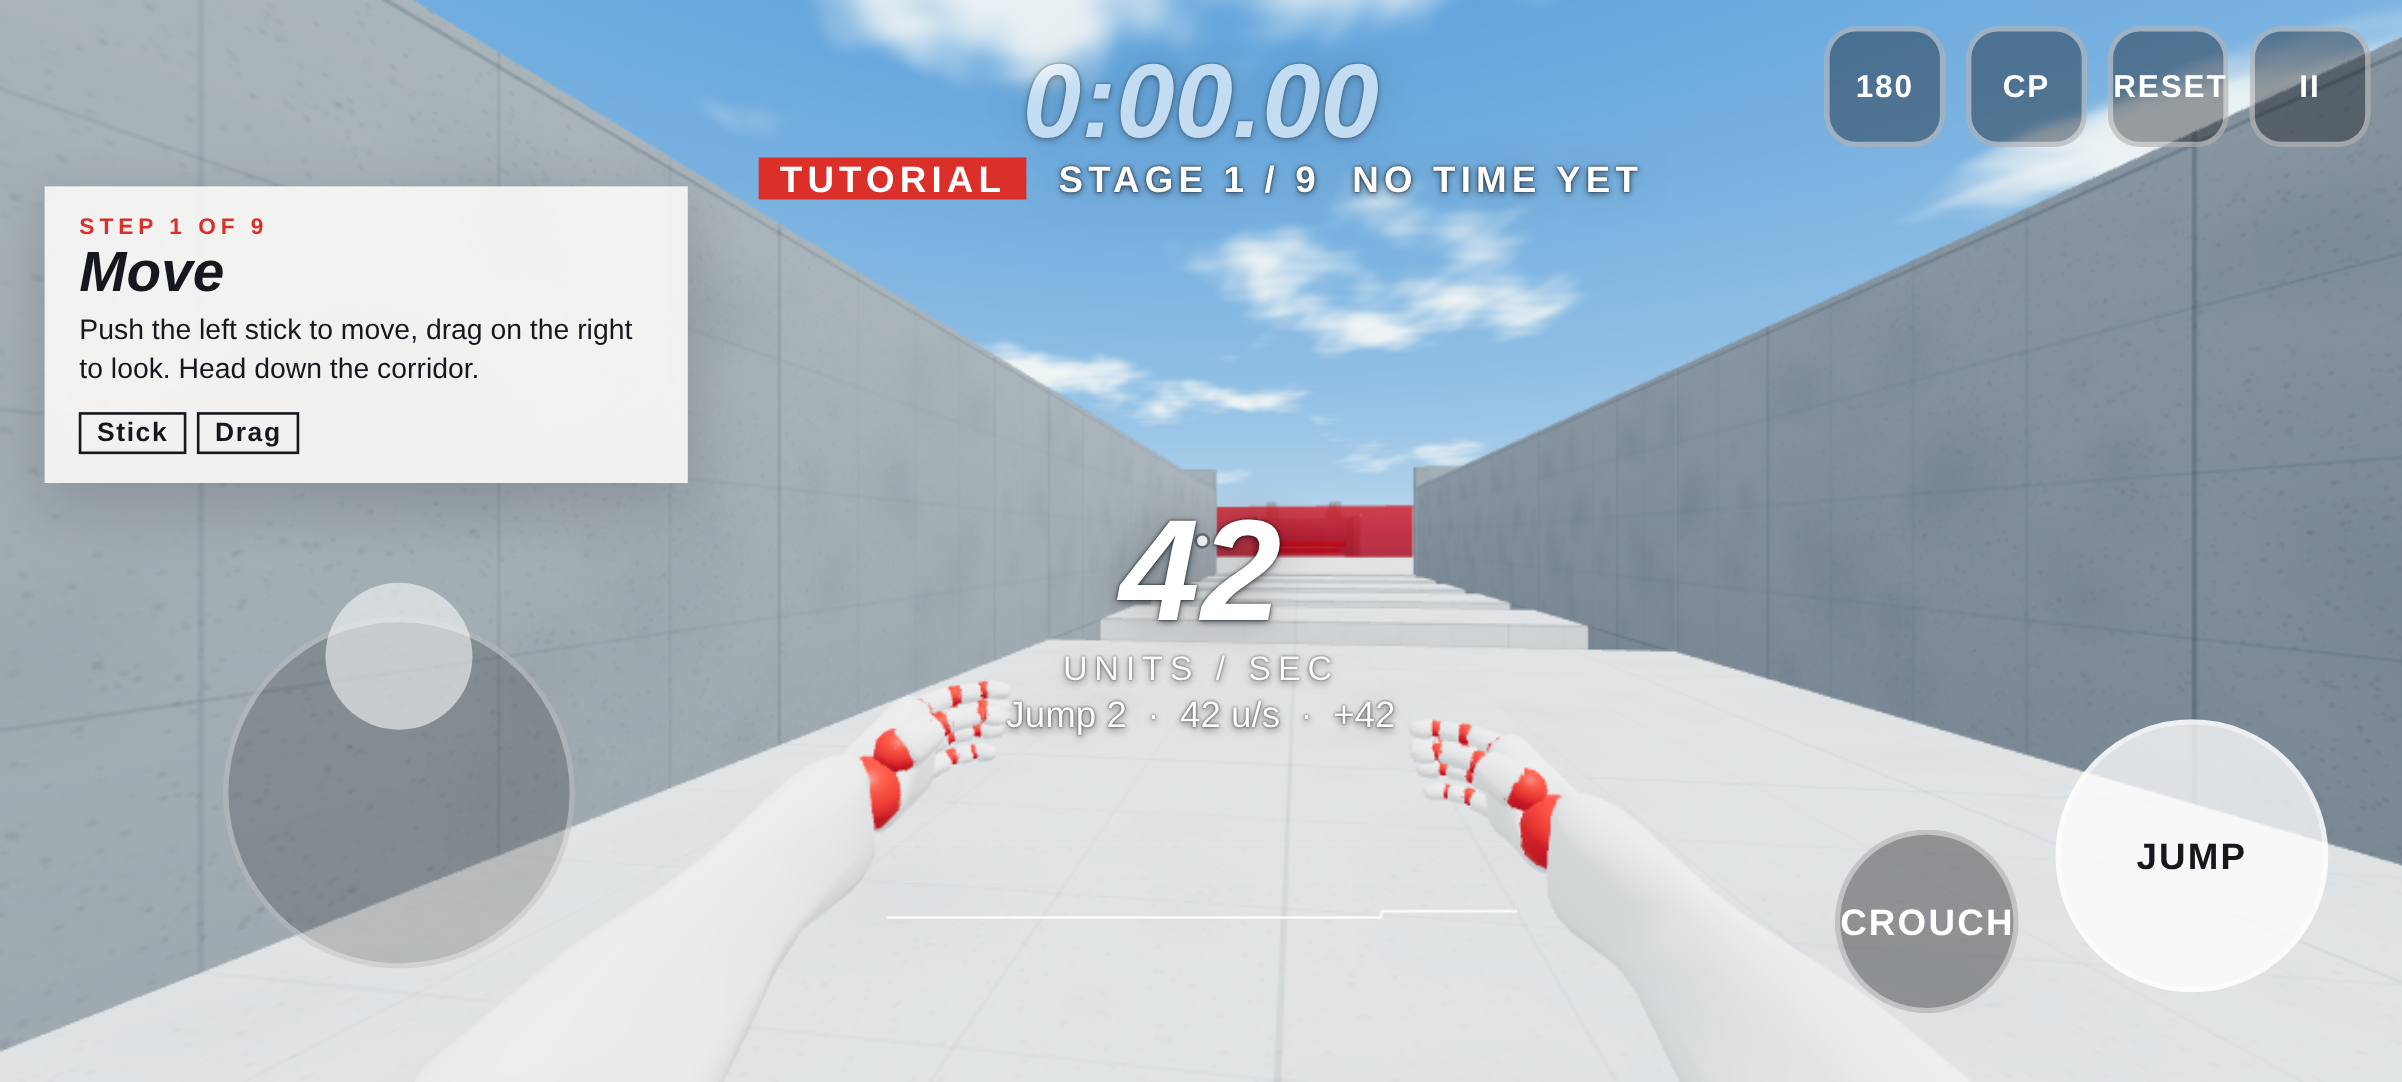
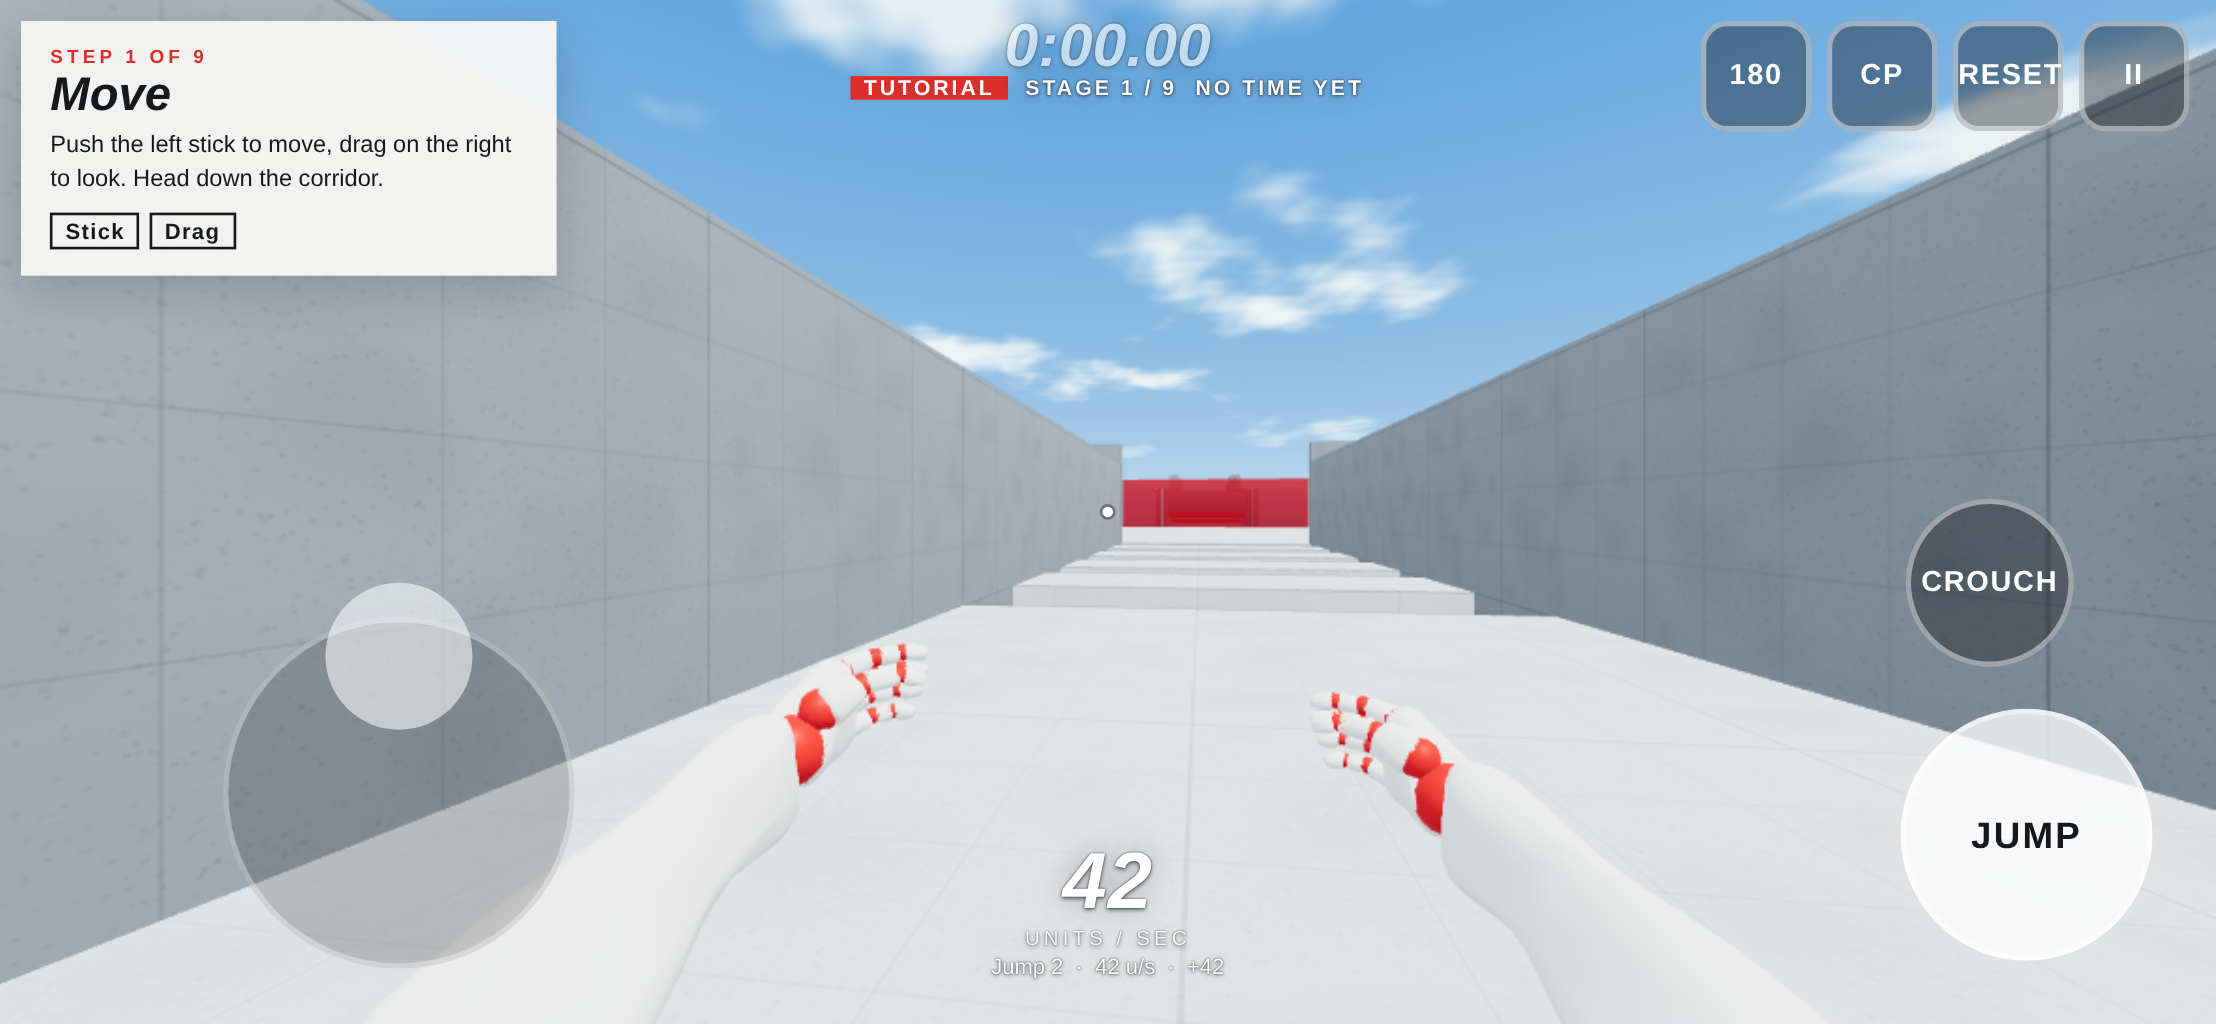
Touch: pause on a quick tap, phone-sized HUD
The tap on the pause button fell through as a click onto the menu or
the view, which resumed the game, so pause only stuck on a long press.
Clicks are now dropped for a moment after pausing. The touch HUD is
smaller: timer top-centre, speed low between the thumbs, tutorial card
top-left, Crouch stacked above Jump. Mouse play is unchanged.

Claude-Session: https://claude.ai/code/session_01SMFRvYaVk4Ny59nhfiSM2p

diff --git a/dist/index.html b/dist/index.html
@@ -8088,14 +8088,20 @@ body.touch.playing:not(.complete) #touch { display: block; }
 .t-btn { position: absolute; border-radius: 50%; border: 2px solid rgba(255,255,255,.45); background: rgba(10,14,18,.38); color: #fff;
   font: 700 14px/1 'Barlow Condensed', sans-serif; letter-spacing: .06em; text-transform: uppercase; touch-action: none; display: grid; place-items: center; padding: 0; }
 .t-btn.on { background: rgba(255,255,255,.75); color: #15191d; }
-#t-jump { width: 104px; height: 104px; right: max(28px, env(safe-area-inset-right)); bottom: 34px; }
-#t-duck { width: 70px; height: 70px; font-size: 12px; right: calc(max(28px, env(safe-area-inset-right)) + 118px); bottom: 26px; }
-#t-bar { position: absolute; top: max(10px, env(safe-area-inset-top)); right: max(12px, env(safe-area-inset-right)); display: flex; gap: 8px; }
-#t-bar .t-btn { position: static; width: 46px; height: 46px; border-radius: 12px; font-size: 12px; }
+#t-jump { width: 96px; height: 96px; right: max(24px, env(safe-area-inset-right)); bottom: max(24px, env(safe-area-inset-bottom)); }
+#t-duck { width: 64px; height: 64px; font-size: 11px; right: calc(max(24px, env(safe-area-inset-right)) + 30px); bottom: calc(max(24px, env(safe-area-inset-bottom)) + 112px); }
+#t-bar { position: absolute; top: max(8px, env(safe-area-inset-top)); right: max(10px, env(safe-area-inset-right)); display: flex; gap: 6px; }
+#t-bar .t-btn { position: static; width: 42px; height: 42px; border-radius: 10px; font-size: 11px; }
 #t-rotate { position: fixed; inset: 0; z-index: 60; display: none; place-items: center; background: #0d1114; color: #f6f6f3; font: 700 22px/1.3 'Barlow Condensed', sans-serif; text-align: center; padding: 24px; }
 @media (orientation: portrait) { body.touch.playing #t-rotate { display: grid; } }
 body.touch #help, body.touch #keys, #t-hint { display: none; }
-body.touch #tut { zoom: .72; }
+body.touch #tut { zoom: .6; top: calc(14px + env(safe-area-inset-top, 0px)); left: calc(14px + env(safe-area-inset-left, 0px)); }
+/* phone HUD: small timer up top, speed low and centred between the thumbs */
+body.touch #top { zoom: .58; top: calc(8px + env(safe-area-inset-top, 0px)); }
+body.touch #speedwrap { zoom: .6; bottom: calc(10px + env(safe-area-inset-bottom, 0px)); }
+body.touch #graph { display: none; }
+body.touch #toast { zoom: .7; top: 22vh; }
+body.touch #fps { top: calc(8px + env(safe-area-inset-top, 0px)); left: calc(12px + env(safe-area-inset-left, 0px)); }
 @media (max-height: 560px) { body.touch #menu, body.touch #drawer, body.touch #complete { zoom: .62; } }
 body.touch #menu button, body.touch #drawer button { min-height: 40px; }
 `;
@@ -8167,11 +8173,16 @@ body.touch #menu button, body.touch #drawer button { min-height: 40px; }
     for (const b of root.querySelectorAll('#t-bar [data-k]')) b.addEventListener('pointerdown', (e) => {
       e.preventDefault();
       const k = b.dataset.k;
-      if (k === 'pause') touchLock(false);
+      if (k === 'pause') { swallowUntil = performance.now() + 600; touchLock(false); }
       else if (k === 'restart') restartCourse();
       else if (k === 'cp') respawn();
       else if (k === 'turn') { if (turnLeft <= 0) turnLeft = Math.PI; }
     });
+    // the tap that pauses would land as a click on whatever the menu puts
+    // under the thumb (or the view, which resumes), so drop it
+    let swallowUntil = 0;
+    const swallow = (e) => { if (performance.now() < swallowUntil) { e.stopPropagation(); e.preventDefault(); } };
+    for (const t of ['click', 'pointerup', 'mouseup', 'touchend']) document.addEventListener(t, swallow, true);
     // the page never scrolls or zooms under the thumbs
     document.addEventListener('touchmove', (e) => { if (locked) e.preventDefault(); }, { passive: false });
     document.addEventListener('gesturestart', (e) => e.preventDefault());

diff --git a/src/game.js b/src/game.js
@@ -1078,14 +1078,20 @@ body.touch.playing:not(.complete) #touch { display: block; }
 .t-btn { position: absolute; border-radius: 50%; border: 2px solid rgba(255,255,255,.45); background: rgba(10,14,18,.38); color: #fff;
   font: 700 14px/1 'Barlow Condensed', sans-serif; letter-spacing: .06em; text-transform: uppercase; touch-action: none; display: grid; place-items: center; padding: 0; }
 .t-btn.on { background: rgba(255,255,255,.75); color: #15191d; }
-#t-jump { width: 104px; height: 104px; right: max(28px, env(safe-area-inset-right)); bottom: 34px; }
-#t-duck { width: 70px; height: 70px; font-size: 12px; right: calc(max(28px, env(safe-area-inset-right)) + 118px); bottom: 26px; }
-#t-bar { position: absolute; top: max(10px, env(safe-area-inset-top)); right: max(12px, env(safe-area-inset-right)); display: flex; gap: 8px; }
-#t-bar .t-btn { position: static; width: 46px; height: 46px; border-radius: 12px; font-size: 12px; }
+#t-jump { width: 96px; height: 96px; right: max(24px, env(safe-area-inset-right)); bottom: max(24px, env(safe-area-inset-bottom)); }
+#t-duck { width: 64px; height: 64px; font-size: 11px; right: calc(max(24px, env(safe-area-inset-right)) + 30px); bottom: calc(max(24px, env(safe-area-inset-bottom)) + 112px); }
+#t-bar { position: absolute; top: max(8px, env(safe-area-inset-top)); right: max(10px, env(safe-area-inset-right)); display: flex; gap: 6px; }
+#t-bar .t-btn { position: static; width: 42px; height: 42px; border-radius: 10px; font-size: 11px; }
 #t-rotate { position: fixed; inset: 0; z-index: 60; display: none; place-items: center; background: #0d1114; color: #f6f6f3; font: 700 22px/1.3 'Barlow Condensed', sans-serif; text-align: center; padding: 24px; }
 @media (orientation: portrait) { body.touch.playing #t-rotate { display: grid; } }
 body.touch #help, body.touch #keys, #t-hint { display: none; }
-body.touch #tut { zoom: .72; }
+body.touch #tut { zoom: .6; top: calc(14px + env(safe-area-inset-top, 0px)); left: calc(14px + env(safe-area-inset-left, 0px)); }
+/* phone HUD: small timer up top, speed low and centred between the thumbs */
+body.touch #top { zoom: .58; top: calc(8px + env(safe-area-inset-top, 0px)); }
+body.touch #speedwrap { zoom: .6; bottom: calc(10px + env(safe-area-inset-bottom, 0px)); }
+body.touch #graph { display: none; }
+body.touch #toast { zoom: .7; top: 22vh; }
+body.touch #fps { top: calc(8px + env(safe-area-inset-top, 0px)); left: calc(12px + env(safe-area-inset-left, 0px)); }
 @media (max-height: 560px) { body.touch #menu, body.touch #drawer, body.touch #complete { zoom: .62; } }
 body.touch #menu button, body.touch #drawer button { min-height: 40px; }
 `;
@@ -1157,11 +1163,16 @@ body.touch #menu button, body.touch #drawer button { min-height: 40px; }
     for (const b of root.querySelectorAll('#t-bar [data-k]')) b.addEventListener('pointerdown', (e) => {
       e.preventDefault();
       const k = b.dataset.k;
-      if (k === 'pause') touchLock(false);
+      if (k === 'pause') { swallowUntil = performance.now() + 600; touchLock(false); }
       else if (k === 'restart') restartCourse();
       else if (k === 'cp') respawn();
       else if (k === 'turn') { if (turnLeft <= 0) turnLeft = Math.PI; }
     });
+    // the tap that pauses would land as a click on whatever the menu puts
+    // under the thumb (or the view, which resumes), so drop it
+    let swallowUntil = 0;
+    const swallow = (e) => { if (performance.now() < swallowUntil) { e.stopPropagation(); e.preventDefault(); } };
+    for (const t of ['click', 'pointerup', 'mouseup', 'touchend']) document.addEventListener(t, swallow, true);
     // the page never scrolls or zooms under the thumbs
     document.addEventListener('touchmove', (e) => { if (locked) e.preventDefault(); }, { passive: false });
     document.addEventListener('gesturestart', (e) => e.preventDefault());
